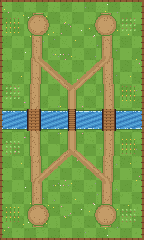
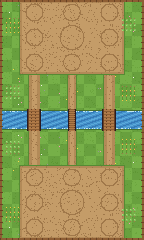
Arena em "teclado numérico": base no 5 e oito pontos de módulo em volta
- Pontos de módulo numa grade 3x3 simétrica (colunas das 3 pontes; fileiras 230, 330 e 430):
  3 na frente, 1 de cada lado da base e 3 atrás. Os dois cantos de trás são novos.
- Cenário das 13 arenas redesenhado: pátio com os 9 lugares marcados e três caminhos retos,
  um de cada ponte.
- O limite de módulos por lado não mudou (1, 2 ou 3 conforme o nível).

Claude-Session: https://claude.ai/code/session_01F2c9wwKpd4XWAaAeM55Dzi

diff --git a/ci/tools/arte/arena.py b/ci/tools/arte/arena.py
@@ -45,62 +45,46 @@ def build(seed=7):
         if 0 <= x < PW and 0 <= my < PH:
             px[x, my] = c
 
-    # caminhos de terra: da torre até a ponte, dos dois lados (espelhado)
-    for side_x in (-1, 1):
-        bx = CX + side_x * BRIDGE_X
-        tx = CX + side_x * TOWER_DX
-        for y in range(CY + RIVER_HALF, int(CY + TOWER_DY) + 12):
-            t = (y - (CY + RIVER_HALF)) / (TOWER_DY + 12 - RIVER_HALF)
-            x_center = bx + (tx - bx) * t
-            half = 5
-            for x in range(int(x_center - half - 1), int(x_center + half + 2)):
-                d = abs(x + 0.5 - x_center)
+    # ---- LAYOUT "TECLADO NUMÉRICO": a base é o 5 e os módulos ficam nos outros 8 números.
+    # 3 colunas (as mesmas das 3 pontes) x 3 fileiras, tudo simétrico.
+    COLS = (CX - BRIDGE_X, CX, CX + BRIDGE_X)
+    ROWS = (CY + 57.5, CY + 82.5, CY + 107.5)          # mundo: 230, 330, 430 a partir do rio
+
+    def dirt(x, y, edge=False):
+        c = DIRT[1] if edge else DIRT[0]
+        if rnd.random() < 0.07:
+            c = DIRT[2]
+        mirror_set(x, y, c)
+
+    # três caminhos RETOS: cada ponte desce direto pra sua coluna do pátio
+    for col_x, half in ((COLS[0], 5), (COLS[1], 4), (COLS[2], 5)):
+        for y in range(CY + RIVER_HALF, int(ROWS[0])):
+            for x in range(int(col_x - half - 1), int(col_x + half + 1)):
+                d = abs(x + 0.5 - col_x)
                 if d <= half:
-                    c = DIRT[0] if d < half - 2 else DIRT[1]
-                    if rnd.random() < 0.08:
-                        c = DIRT[2]
-                    mirror_set(x, y, c)
+                    dirt(x, y, d >= half - 2)
                 elif d <= half + 1:
                     mirror_set(x, y, G3)
 
-    # caminho do meio: sai da ponte central, desce e se divide em "Y" até
-    # os caminhos das duas torres
-    fork_y = CY + 30
-    for y in range(CY + RIVER_HALF, fork_y + 1):
-        for x in range(CX - 4, CX + 4):
-            c = DIRT[0] if abs(x + 0.5 - CX) < 2.5 else DIRT[1]
-            mirror_set(x, y, c)
-        mirror_set(CX - 5, y, G3)
-        mirror_set(CX + 4, y, G3)
-    for side_x in (-1, 1):
-        target_x = CX + side_x * (BRIDGE_X + (TOWER_DX - BRIDGE_X) * 0.55)
-        target_y = CY + RIVER_HALF + int((TOWER_DY + 12 - RIVER_HALF) * 0.55)
-        steps = 60
-        for i in range(steps + 1):
-            t = i / steps
-            x_c = CX + (target_x - CX) * t
-            y_c = fork_y + (target_y - fork_y) * t
-            for dx in range(-3, 4):
-                for dy in range(-1, 2):
-                    c = DIRT[0] if abs(dx) < 2 else DIRT[1]
-                    if rnd.random() < 0.05:
-                        c = DIRT[2]
-                    mirror_set(int(x_c) + dx, int(y_c) + dy, c)
-
-    # base de terra embaixo de cada torre (círculo batido)
-    for side_x in (-1, 1):
-        tx = CX + side_x * TOWER_DX
-        ty = CY + TOWER_DY
-        for y in range(int(ty - 12), int(ty + 13)):
-            for x in range(int(tx - 12), int(tx + 13)):
-                d = math.hypot(x + 0.5 - tx, y + 0.5 - ty)
-                if d <= 10.5:
-                    c = DIRT[0] if d < 8 else DIRT[1]
-                    if rnd.random() < 0.06:
-                        c = DIRT[2]
-                    mirror_set(x, y, c)
-                elif d <= 11.5:
-                    mirror_set(x, y, G3)
+    # o pátio: um quadrado de terra batida em volta da base, com borda
+    yx0, yx1 = int(COLS[0] - 14), int(COLS[2] + 14)
+    yy0, yy1 = int(ROWS[0] - 11), min(int(ROWS[2] + 11), PH - 2)
+    for y in range(yy0 - 1, yy1 + 2):
+        for x in range(yx0 - 1, yx1 + 2):
+            if x < yx0 or x > yx1 or y < yy0 or y > yy1:
+                mirror_set(x, y, G3)
+            else:
+                dirt(x, y, x - yx0 < 2 or yx1 - x < 2 or y - yy0 < 2 or yy1 - y < 2)
+    # os 9 lugares: o do meio (a base) maior, os 8 em volta marcados no chão
+    for ri, ry in enumerate(ROWS):
+        for ci, cx_ in enumerate(COLS):
+            main = ri == 1 and ci == 1
+            r = 12.5 if main else 9.0
+            for y in range(int(ry - r - 1), int(ry + r + 2)):
+                for x in range(int(cx_ - r - 1), int(cx_ + r + 2)):
+                    d = math.hypot(x + 0.5 - cx_, y + 0.5 - ry)
+                    if r - 1.2 <= d <= r and y <= PH - 2:
+                        mirror_set(x, y, DIRT[2])
 
     # rio no meio (com espuma nas margens e brilho)
     for y in range(CY - RIVER_HALF - 1, CY + RIVER_HALF + 1):
